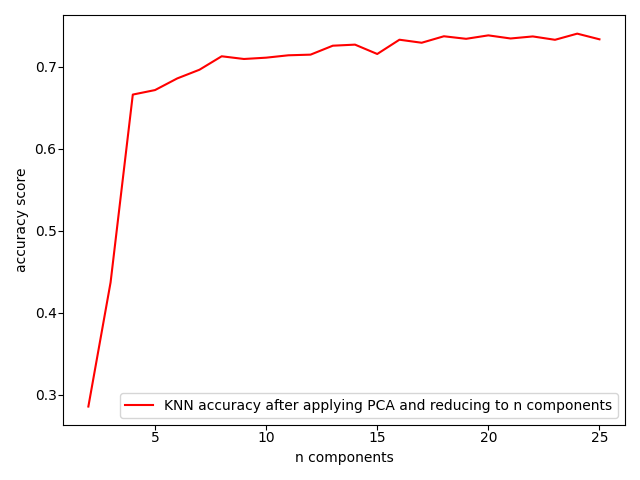
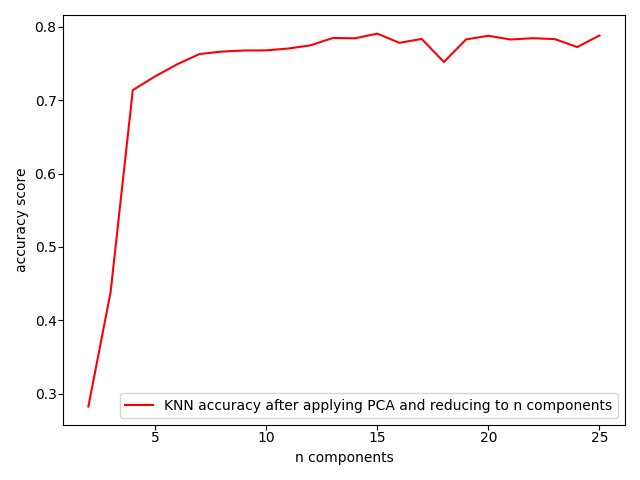
Final report and analysis

diff --git a/project.py b/project.py
@@ -733,50 +733,53 @@ def decision_tree_visualizaton(decision_tree_results):
 # df_clean: Original dataset upon which train_test_split was applied
 def k_neighbors_classifier(X_train, X_test, y_train, y_test, df_clean):
 
-    # fig, ax = plt.subplots()
+    fig, ax = plt.subplots()
 
-    # # KNN accuracy for n neighbors on entire dataset
-    # X_axis, Y_axis = knn_analysis.knn_accuracy_on_entire_dataset(X_train, X_test, y_train, y_test)
-    # # Test Results
-    # # Y_axis = [0.9070887550980773, 0.895902116915906, 0.9074771800349583, 0.9034764031850845, 0.9067780151485726, 0.9048358904641678, 0.9065449601864439, 0.9054962128568654, 0.9054962128568654, 0.9043697805399107, 0.9047582054767916, 0.9042920955525344, 0.9039425131093416, 0.9032433482229559, 0.9029714507671392, 0.9027772382986988, 0.9027383958050107, 0.9025441833365702, 0.9022722858807536, 0.9018450184501845, 0.901223538551175, 0.9008739561079822, 0.9010293260827346, 0.9006409011458536, 0.9008739561079822, 0.9003301611963488, 0.9004855311711012, 0.9002136337152845, 0.8997475237910274, 0.8994756263352107, 0.8993979413478346, 0.8988929889298893, 0.8989318314235774, 0.8986987764614488, 0.8987764614488251, 0.898349194018256, 0.898349194018256, 0.8982715090308798, 0.8981549815498155, 0.8980384540687513, 0.8980384540687513, 0.8978442416003107, 0.8977665566129346, 0.8974169741697416]
-    # # Plot the data as a line chart and mark it in blue
-    # plt.plot(X_axis, Y_axis, label='KNN accuracy for n neighbors on entire dataset (82 features)', c="blue")
+    # KNN accuracy for n neighbors on entire dataset
+    X_axis, Y_axis = knn_analysis.knn_accuracy_on_entire_dataset(X_train, X_test, y_train, y_test)
+    # Test Results
+    # print (Y_axis)
+    # Y_axis = [0.8935, 0.8824, 0.8693, 0.8602, 0.8574, 0.8473, 0.842, 0.8312, 0.8302, 0.8213, 0.82, 0.8111, 0.8128, 0.8077, 0.8055, 0.7971, 0.7922, 0.7885, 0.785, 0.7813, 0.7769, 0.7723, 0.7715, 0.7673]
+    # Plot the data as a line chart and mark it in blue
+    plt.plot(X_axis, Y_axis, label='KNN accuracy for n neighbors on entire dataset (82 features)', c="blue")
 
-    # # Apply cross_val_score
-    # X_axis, Y_axis = knn_analysis.knn_apply_cross_val_score(df_clean)
-    # # Test Results
-    # # Y_axis = [0.8511691686412023, 0.8074589172567258, 0.855585647983793, 0.8344704949932877, 0.8642671376901581, 0.8514372277880723, 0.8699538007495896, 0.8612024318951061, 0.8741721998945964, 0.8688118391287192, 0.8795908363952943, 0.8752909024120694, 0.8823409594053253, 0.8793228431036164, 0.8844851175616342, 0.8823642775747198, 0.8869205960049686, 0.885277526611506, 0.888855001300606, 0.8877829324062443, 0.890288323943673, 0.889495927114352, 0.8916983426746548, 0.8909525509538255, 0.8928519864634856, 0.8921761200573013, 0.8940056363625921, 0.8932598575412335, 0.8944950748666946, 0.8944018544659181, 0.89557880759819, 0.8954389719051296, 0.8960682338817414, 0.8961031907682481, 0.8968256778980728, 0.8965460058330319, 0.8970820487667067, 0.8969538680848264, 0.8974782532916429, 0.8971170151580864, 0.8972452019502425, 0.8971519815494663, 0.8977113250006286, 0.8974666206848061]
-    # # Plot the data as a line chart and mark it in green
-    # plt.plot(X_axis, Y_axis, label='cross_val_score with 5 fold for n neighbors', c="green")
+    # Apply cross_val_score
+    X_axis, Y_axis = knn_analysis.knn_apply_cross_val_score(df_clean)
+    # Test Results
+    # print (Y_axis)
+    # Y_axis = [0.8933, 0.88368, 0.8752600000000001, 0.8701599999999999, 0.8649799999999999, 0.8580399999999999, 0.8549200000000001, 0.84672, 0.8450799999999999, 0.8377399999999999, 0.8348000000000001, 0.8295999999999999, 0.8274199999999998, 0.8228199999999999, 0.81822, 0.81458, 0.8116, 0.80554, 0.80242, 0.79642, 0.79224, 0.7880400000000001, 0.78308, 0.7794399999999999]
+    # Plot the data as a line chart and mark it in green
+    plt.plot(X_axis, Y_axis, label='cross_val_score with 5 fold for n neighbors', c="green")
 
-    # plt.xlabel("n neighbours")
-    # plt.ylabel("accuracy score")
-    # ax.legend()
-    # plt.tight_layout()
-    # plt.savefig("analysis_visualization/KNN.png") 
+    plt.xlabel("n neighbours")
+    plt.ylabel("accuracy score")
+    ax.legend()
+    plt.tight_layout()
+    plt.savefig("analysis_visualization/KNN.png") 
 
-    # fig, ax = plt.subplots()
-    # # Apply PCA and compare
-    # X_axis, Y_axis = knn_analysis.apply_pca_and_compare(X_train, X_test, y_train, y_test)
-    # # Test Results
-    # # Y_axis = [0.594251310934162, 0.7977859778597786, 0.8865799184307632, 0.8886774130899203, 0.888949310545737, 0.8891046805204894, 0.8900757428626918, 0.8882113031656632, 0.8891823655078656, 0.8886385705962323, 0.892212080015537, 0.891396387648087, 0.8917071275975917, 0.8920178675470966, 0.8916682851039037, 0.8919790250534084, 0.8916294426102156, 0.8921732375218488, 0.8912021751796465, 0.8902699553311323, 0.8903864828121966, 0.8907360652553894, 0.8908914352301418, 0.890969120217518, 0.8902699553311323, 0.8906583802680133, 0.8912410176733346, 0.8908914352301418, 0.9032433482229559, 0.9026995533113226, 0.9063119052243154, 0.9060788502621868, 0.9058457953000583, 0.9060788502621868, 0.9058846377937464, 0.9057681103126821, 0.9065838026801321, 0.9065449601864439,  0.906972227617013, 0.9067780151485726, 0.9058069528063701, 0.9060011652748107, 0.9059234802874344, 0.9064672751990678]
-    # # Plot the data as a line chart and mark it in red
-    # plt.plot(X_axis, Y_axis, label='KNN accuracy after applying PCA and reducing to n components', c="red")
+    fig, ax = plt.subplots()
+    # Apply PCA and compare
+    X_axis, Y_axis = knn_analysis.apply_pca_and_compare(X_train, X_test, y_train, y_test)
+    # Test Results
+    # print (Y_axis)
+    # Y_axis = [0.2859, 0.4373, 0.6663, 0.672, 0.6861, 0.6962, 0.7128, 0.7109, 0.7116, 0.7127, 0.7141, 0.725, 0.7317, 0.7335, 0.7385, 0.7345, 0.7366, 0.7398, 0.7309, 0.7403, 0.7368, 0.7339, 0.7395, 0.7356]
+    # Plot the data as a line chart and mark it in red
+    plt.plot(X_axis, Y_axis, label='KNN accuracy after applying PCA and reducing to n components', c="red")
 
-    # plt.xlabel("n components")
-    # plt.ylabel("accuracy score")
-    # ax.legend()
-    # plt.tight_layout()
-    # plt.savefig("analysis_visualization/PCA.png") 
+    plt.xlabel("n components")
+    plt.ylabel("accuracy score")
+    ax.legend()
+    plt.tight_layout()
+    plt.savefig("analysis_visualization/PCA.png") 
 
-    # # drop one column at a time and find the importance of each column in the dataset
-    # X_axis, Y_axis = knn_analysis.knn_remove_columns_and_find_accuracy(df_clean)
-    # # Test Results
-    # # X_axis = ['None', 'stop_year', 'stop_month', 'stop_date', 'stop_hour', 'driver_gender', 'drivers_age_bucket', 'drivers_race', 'stop_duration', 'is_arrested', 'drugs_related_stop', 'violations_raw', 'search_score']
-    # # Y_axis = [0.9042763924493125, 0.9074807737124213, 0.9080633884875321, 0.9046259613143789, 0.9116173386157073, 0.9060242367746446, 0.9077138196224657, 0.9069564204148217, 0.903810300629224, 0.8908762526217665, 0.9044511768818457, 0.9063155441622, 0.9076555581449546]
-    # plot_line_chart(X_axis, Y_axis, "column", "Accuracy", "KNN accuracy for on removing each feature", "analysis_visualization/KNN_columns.png")
-
-    knn_analysis.knn_find_accuracy_of_each_class(X_train, X_test, y_train, y_test)
+    # drop one column at a time and find the importance of each column in the dataset
+    X_axis, Y_axis = knn_analysis.knn_remove_columns_and_find_accuracy(df_clean)
+    # Test Results
+    # print (X_axis)
+    # print (Y_axis)
+    # X_axis = ['None', 'stop_year', 'stop_month', 'stop_date', 'stop_hour', 'driver_gender', 'drivers_age_bucket', 'drivers_race', 'stop_duration', 'is_arrested', 'drugs_related_stop', 'violations_raw', 'search_score']
+    # Y_axis = [0.8602, 0.8433, 0.8659, 0.8608, 0.8619, 0.8637, 0.8676, 0.8629, 0.8546, 0.8179, 0.8606, 0.8375, 0.8602]
+    plot_line_chart(X_axis, Y_axis, "column", "Accuracy", "KNN accuracy for on removing each feature", "analysis_visualization/KNN_columns.png")
 
 
 # Since our dataset is predominatly filled with citations, we need to resample our data so that classification models can learn better
@@ -901,6 +904,11 @@ if __name__ == "__main__":
     # 'search_score': 0.9280574579835221}
     
     
-    # K Nearest Neighbours
-    print ("k_neighbors_classifier")
-    k_neighbors_classifier(X_train, X_test, y_train, y_test, dataframe)
+    # # K Nearest Neighbours
+    # print ("k_neighbors_classifier")
+    # k_neighbors_classifier(X_train, X_test, y_train, y_test, dataframe)
+    # print ("k_neighbors_classifier performance without resampling data")
+    # knn_analysis.knn_find_accuracy_of_each_class(X_train_orig, X_test_orig, y_train_orig, y_test_orig)
+    # print ("k_neighbors_classifier performance with resampling data")
+    # knn_analysis.knn_find_accuracy_of_each_class(X_train, X_test, y_train, y_test)
+    

diff --git a/knn_analysis.py b/knn_analysis.py
@@ -109,7 +109,7 @@ def apply_pca_and_compare(X_train, X_test, y_train, y_test):
 		X_train = sklearn_pca.fit_transform(X_train_orig)
 		X_train = pd.DataFrame(X_train)
 
-		knn = KNeighborsClassifier(n_neighbors=25, metric='euclidean')
+		knn = KNeighborsClassifier(n_neighbors=15, metric='euclidean')
 		result = predict_and_get_accuracy(knn, X_train, X_test, y_train, y_test) 
 		X_axis.append(components)
 		Y_axis.append(result)

diff --git a/final_report.md b/final_report.md
@@ -7,9 +7,11 @@ Due to the recent police activity and call for police reform over the past few m
 We decided to run the dataset on four different models, Random Forest, Decision Tree, K Nearest Neighbors, and Logistic Regression, to see how the models will perform. We also wanted to find some other details like which column is most important to predict the stop_outcome and if different depths on Decision Tree would make a difference.
 
 ## Random Forest
+<!-- Include dropping columns graph under comparisions section and delete this comment -->
 
 
 ## Decision Tree
+<!-- Include dropping columns graph under comparisions section and delete this comment -->
 * Apply Decision Tree classifier algorithm on the dataset and compare how different approaches in implementing the algorithm impacts the accuracy
 * The first approach is to find out the best parameters using the grid search
 * In the second approach we try to remove individually one column at a time and try to find out 
@@ -19,16 +21,63 @@ We decided to run the dataset on four different models, Random Forest, Decision 
   is varied. For various depths the accuracy is calculated. The increase in the maximum depth causes the algorithm to overifit, hence higher depths are not preferred
 
 ## K Nearest Neighbors
-* Apply KNN algorithm on the dataset and compare how different approaches in implementing the algorithm impacts the accuracy
-* The first approach is to apply KNN on the entire dataset by selecting n number of neighbours
-* The second approach is to reduce the dataset into n number of features and then apply KNN on the dataset
-* The third approach is to find accuracy by using cross_val_score with 5 folds on KNN
-* Finally, drop one column at a time and find the importance of each column in the dataset
+Apply KNN algorithm on the dataset and compare how different approaches in implementing the algorithm impacts the accuracy
+1) The first approach is to apply KNN on the entire dataset by selecting n number of neighbours
+2) The second approach is to reduce the dataset into n number of features and then apply KNN on the dataset
+3) The third approach is to find accuracy by using cross_val_score with 5 folds on KNN
+4) Finally, drop one column at a time and find the importance of each column in the dataset
+
+![KNN neighbous analysis](analysis_visualization/KNN.png)
+
+* On looking at the above graph we notice that accuracy of KNN with and without cross_val_score is almost the same. It starts at the same accuracy and slowly moves further away but the difference is more or less the same always. This indicates that the model is not overfitted or underfitted. Also, as expected the accuracy decreases by considering higher number of neighbours for analysis.
+* By looking at the following results where the accuracy of prediction of each outcome is mentioned, we observe that the ideal value for K must be 15 where it is not too biased towards a few outcomes or too low for other outcomes
+	- Prediction accuracy of each class using KNN with 5 neighbors
+
+	| stop_outcome |  accuracy |
+	| --------- | --------------- |
+	|     Arrest Driver |  0.953954 |
+	|  Arrest Passenger | 1.000000 | 
+	|          Citation |  0.568627| 
+	|         No Action | 1.000000| 
+	|           Warning |  0.775100| 
+
+	- Prediction accuracy of each class using KNN with 15 neighbors
+
+	| stop_outcome  | accuracy| 
+	|---------------|---------|
+	| Arrest Driver  | 0.788288| 
+	| Arrest Passenger  | 1.000000| 
+	| Citation  | 0.562594| 
+	| No Action  | 0.993988| 
+	| Warning  | 0.689759| 
+
+	- Prediction accuracy of each class using KNN with 25 neighbors
+
+	| stop_outcome  | accuracy| 
+	|----------------|---------|
+	| Arrest Driver | 0.681181| 
+	| Arrest Passenger  | 0.994074| 
+	| Citation  | 0.556058| 
+	| No Action  | 0.937876| 
+	| Warning  | 0.663153| 
+
+![PCA analysis](analysis_visualization/PCA.png)
+
+* The above plot was obtained by running KNN with 15 neighbours. The original dataframe has about 82 features and reducing that to very low number of features will make the dataframe lose a lot of information and that is reflected in the graph where we see the accuracy is very low.
+* The ideal number of components would be anything above 13. For all values above 13 components, there is not much significant difference we notice in prediction
+
 
 ## Logistic Regression
+<!-- Include dropping columns graph under comparisions section and delete this comment -->
 
 
 # Comparisons
+
+In following graphs we remove one column at time and look at the accuracy with which each of the models is able to predict/classify. We notice that the accuracy decreases upon removing column is_arrested in each of the methods. This indicates that is_arrested is the most important column in this data since this directly leads to either arrest of driver or passenger.
+
+* Accuracy using KNN 
+
+![Importance of column using KNN](analysis_visualization/KNN_columns.png)
 
 
 # Conclusion
